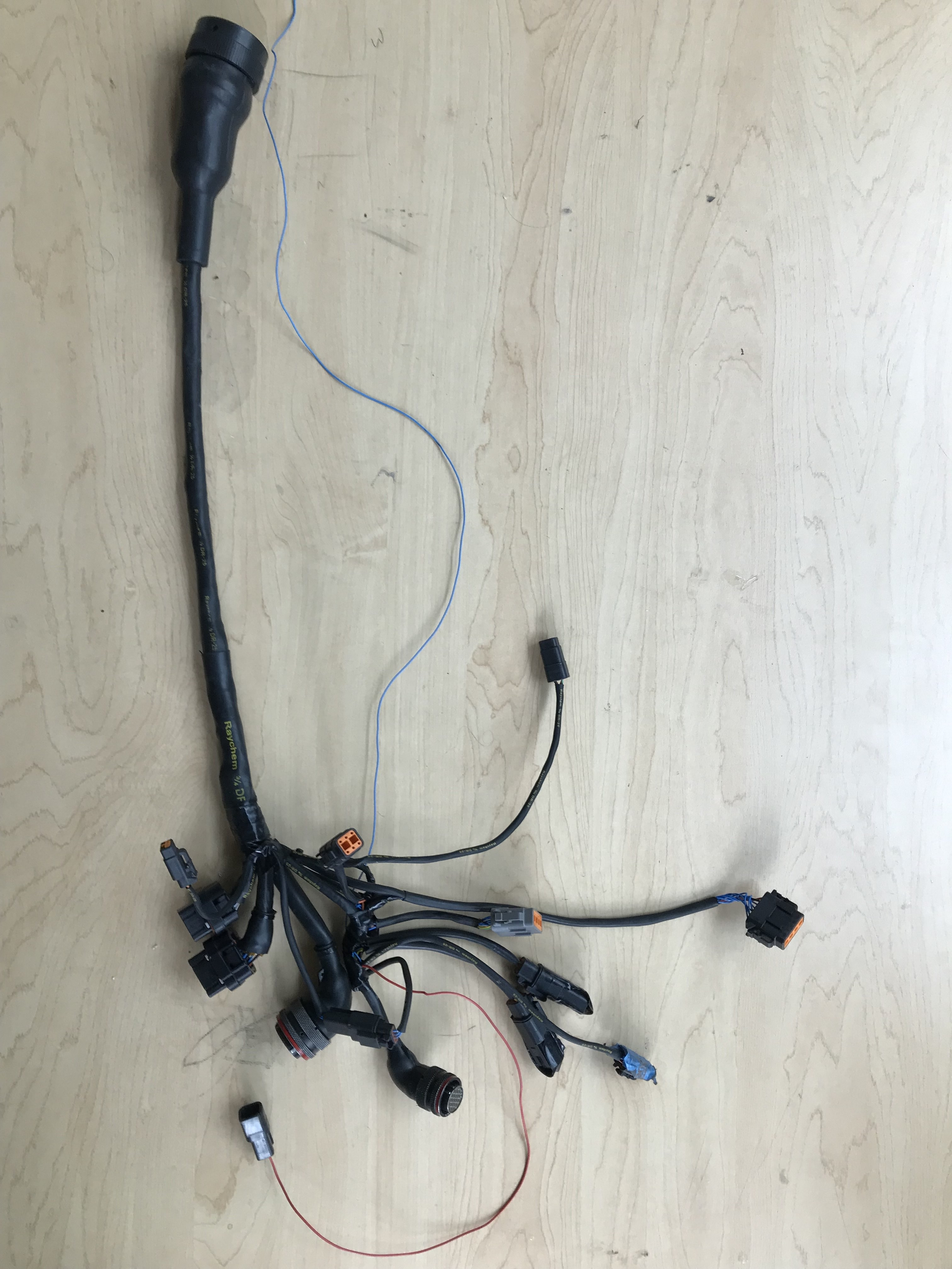
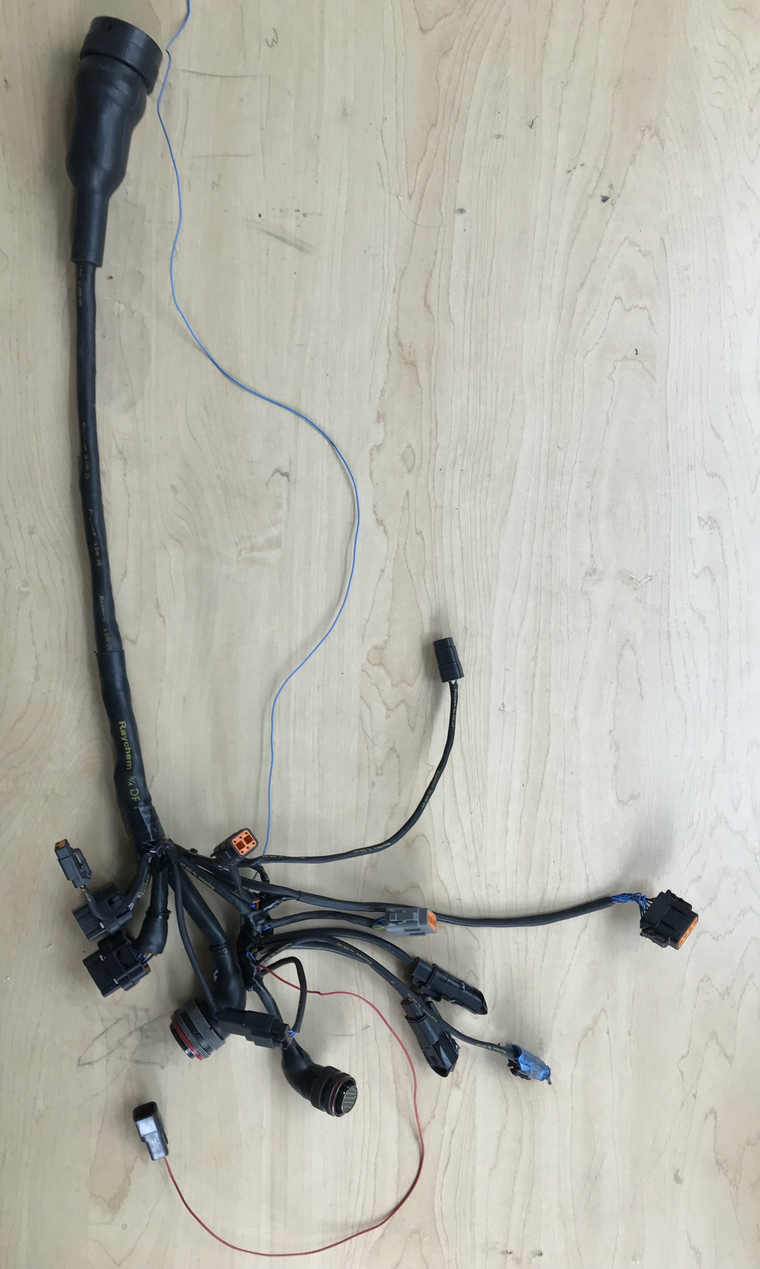
fixing stacked images

diff --git a/Formula Projects/WiringHarness.html b/Formula Projects/WiringHarness.html
@@ -281,7 +281,7 @@
               <div style="display: flex; flex-direction: column; gap: 20px;">
                 <figure>
                 <img src="Formula Media/MainHarness_Done.jpg" alt="Finished Main Trunk" class="project-image__img" 
-                style="width: 650px; height: auto; border: 2px solid #e0e0e0; 
+                style="width: 250px; height: auto; border: 2px solid #e0e0e0; 
                 box-shadow: 2px 2px 8px rgba(0, 0, 0, 0.1); transform: rotate(-90deg);" />
                 <figcaption>Finished Main Trunk Harness</figcaption>
               </figure>
